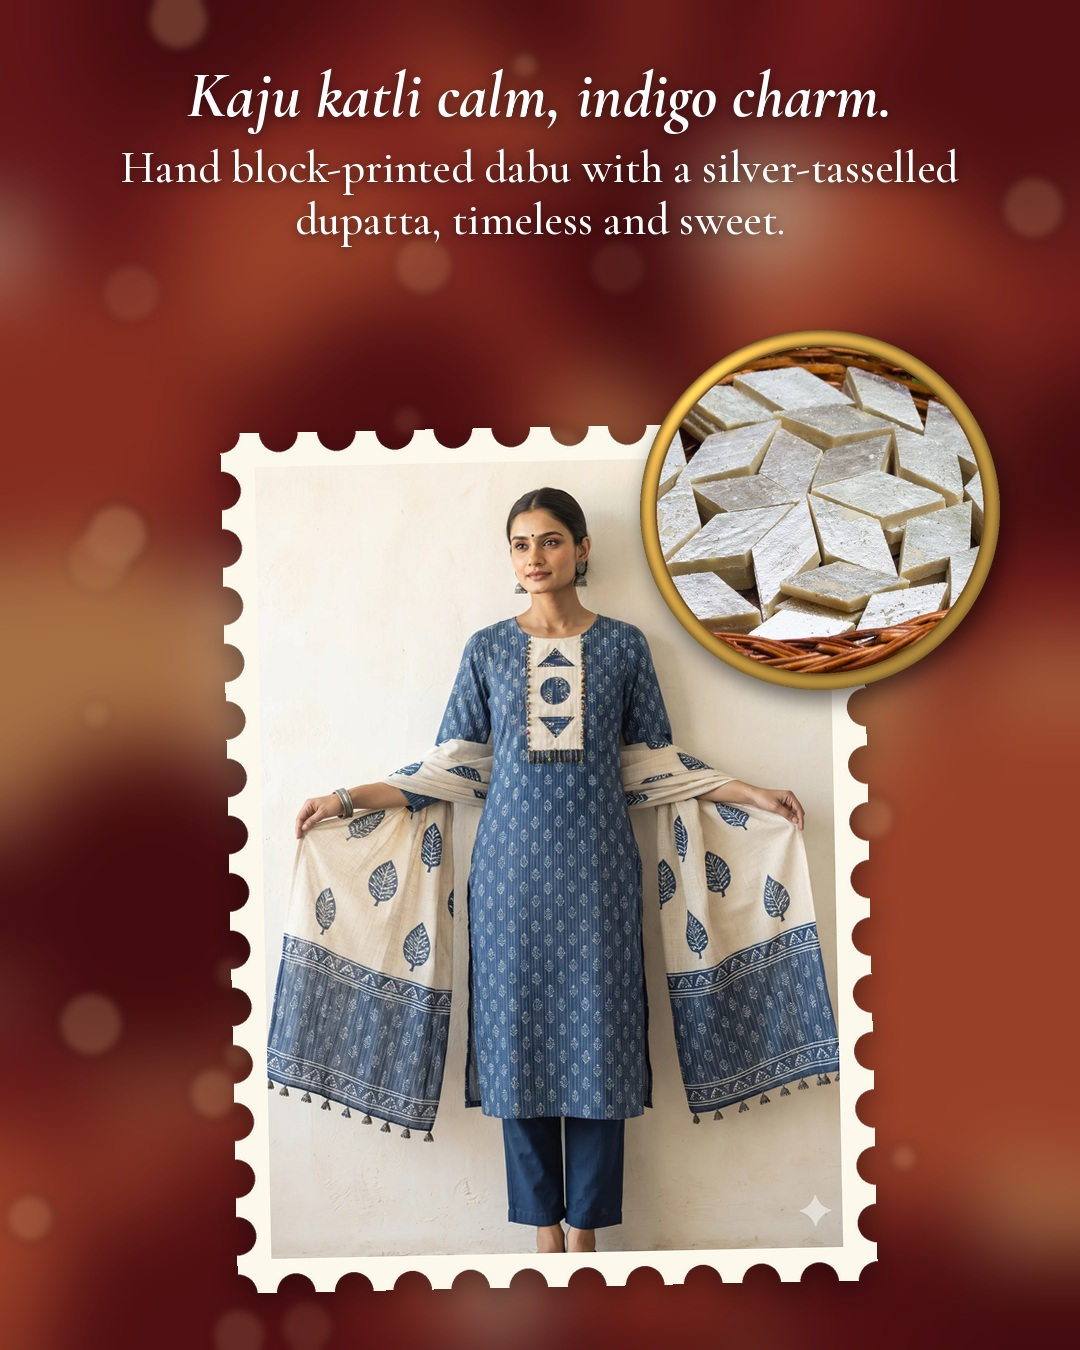
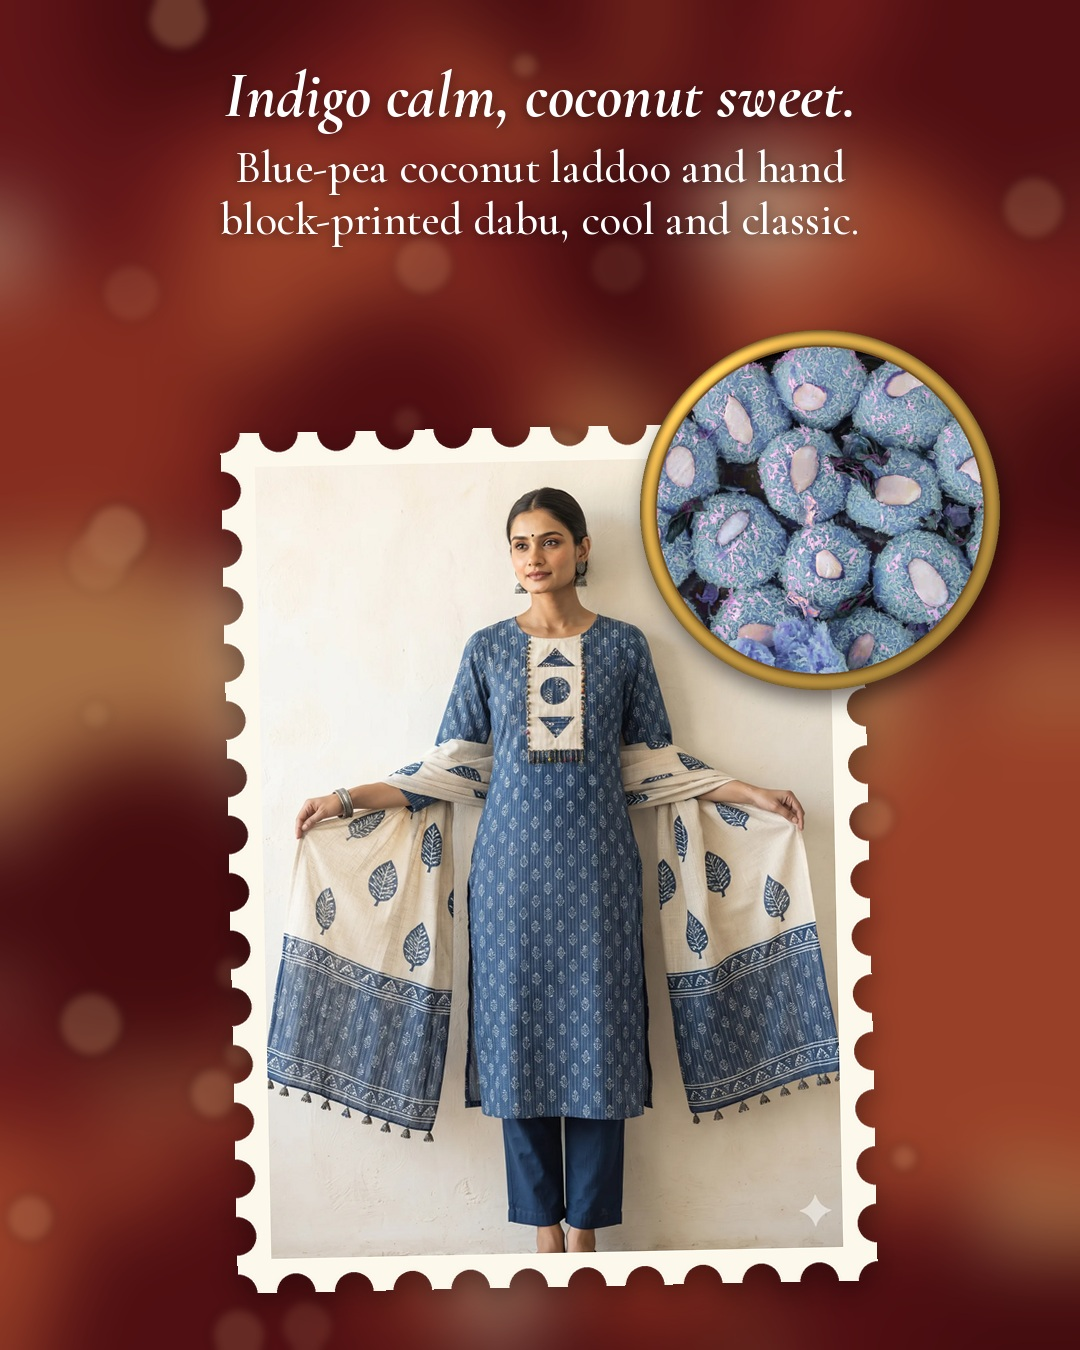
Mithai carousel: recolour sweets to match outfits (yellow laddoo, indigo coconut laddoo, sea green barfi)
Claude-Session: https://claude.ai/code/session_01LZv7UTnsZcwjx4RXmrtg3u

Changed region(s): [[0.1222, 0.0311, 0.8861, 0.1867], [0.6111, 0.2489, 0.9167, 0.4978]]

diff --git a/marketing/posts/mithai_carousel.py b/marketing/posts/mithai_carousel.py
@@ -27,16 +27,20 @@ CRIMSON = (176, 24, 58)
 SLIDES = [
     ("mustard-sharara", (0, 1), "laddoo", "left", "Motichoor mood, golden and good.",
      "Mirror-work paisleys as golden as the first laddoo of Diwali."),
-    ("indigo-dabu", (0, 1), "katli", "right", "Kaju katli calm, indigo charm.",
-     "Hand block-printed dabu with a silver-tasselled dupatta, timeless and sweet."),
+    ("indigo-dabu", (0, 1), "blue", "right", "Indigo calm, coconut sweet.",
+     "Blue-pea coconut laddoo and hand block-printed dabu, cool and classic."),
     ("pink-short-top", (0, 1), "coconut", "left", "Gulabi and full of mithaas.",
      "A twirl of block-printed pink for the girl who saves room for dessert."),
-    ("green-print", (0, .845), "barfi", "right", "Pista green, easy and serene.",
+    ("green-print", (0, .845), "barfi", "right", "Sea green, sweet and serene.",
      "Soft prints for long Diwali days of guests, games and gupshup."),
 ]
-# mithai photo, crop circle (centre x, centre y, radius) as fractions of the photo's width
-MITHAI = {"laddoo": ("laddoo", (.523, .596, .433)), "katli": ("katli", (.57, .43, .28)),
-          "coconut": ("coconut", (.49, .9, .4)), "barfi": ("barfi", (.5, .485, .45))}
+# mithai photo, crop circle (centre x, centre y, radius) as fractions of the photo's width, mirror, and a recolour
+# (source hue range in degrees, target hue, minimum saturation) so the sweet matches the outfit
+MITHAI = {"laddoo": ("laddoo", (.523, .596, .433), False, ((0, 38), 44, .35)),
+          "katli": ("katli", (.57, .43, .28), False, None),
+          "coconut": ("coconut", (.49, .9, .4), False, None),
+          "blue": ("coconut", (.5, .78, .36), True, ((300, 30), 218, .2, .55, .85)),
+          "barfi": ("barfi", (.5, .485, .45), False, ((60, 140), 158, .25))}
 COVER = ["olive-kalamkari", "mustard-sharara", "indigo-dabu"]
 COVER_TEXT = ["Mithai moods", "& handmade", "looks this", "DIWALI"]
 
@@ -58,10 +62,32 @@ def cover_crop(im, w, h, fy=.35):
     return r.crop((x, y, x + w, y + h))
 
 
+def recolour(im, src, target, sat_min, sat_k=1.0, val_k=1.0):
+    """Move the hues in `src` (degrees, may wrap past 360) to `target`, keeping each pixel's shading."""
+    hsv = np.asarray(im.convert("HSV"), np.float32)
+    h, sat = hsv[..., 0] * 360 / 255, hsv[..., 1] / 255
+    lo, hi = src
+    width = (hi - lo) % 360
+    pos = (h - lo) % 360
+    inside = np.clip(np.minimum(pos, width - pos) / 6, 0, 1) * (pos <= width)            # soft edges on the range
+    w = inside * np.clip((sat - sat_min) / .1, 0, 1)
+    mid = (lo + width / 2) % 360
+    delta = ((target - mid + 180) % 360) - 180
+    hsv[..., 0] = ((h + delta * w) % 360) * 255 / 360
+    hsv[..., 1] *= 1 + (sat_k - 1) * w                                                  # optionally mute and deepen
+    hsv[..., 2] *= 1 + (val_k - 1) * w
+    return Image.fromarray(hsv.astype(np.uint8), "HSV").convert("RGB")
+
+
 def mithai_sticker(photos_dir, kind, d):
     """The mithai photo cut into a circle inside a polished gold rim, like a plate seen from above."""
-    name, (fx, fy, fr) = MITHAI[kind]
+    name, (fx, fy, fr), mirror, recol = MITHAI[kind]
     im = load(os.path.join(photos_dir, "mithai"), name)
+    if mirror:
+        im = im.transpose(Image.FLIP_LEFT_RIGHT)
+        fx = 1 - fx
+    if recol:
+        im = recolour(im, *recol)
     cx, cy, r = fx * im.width, fy * im.width, fr * im.width
     S = 2
     D = d * S
